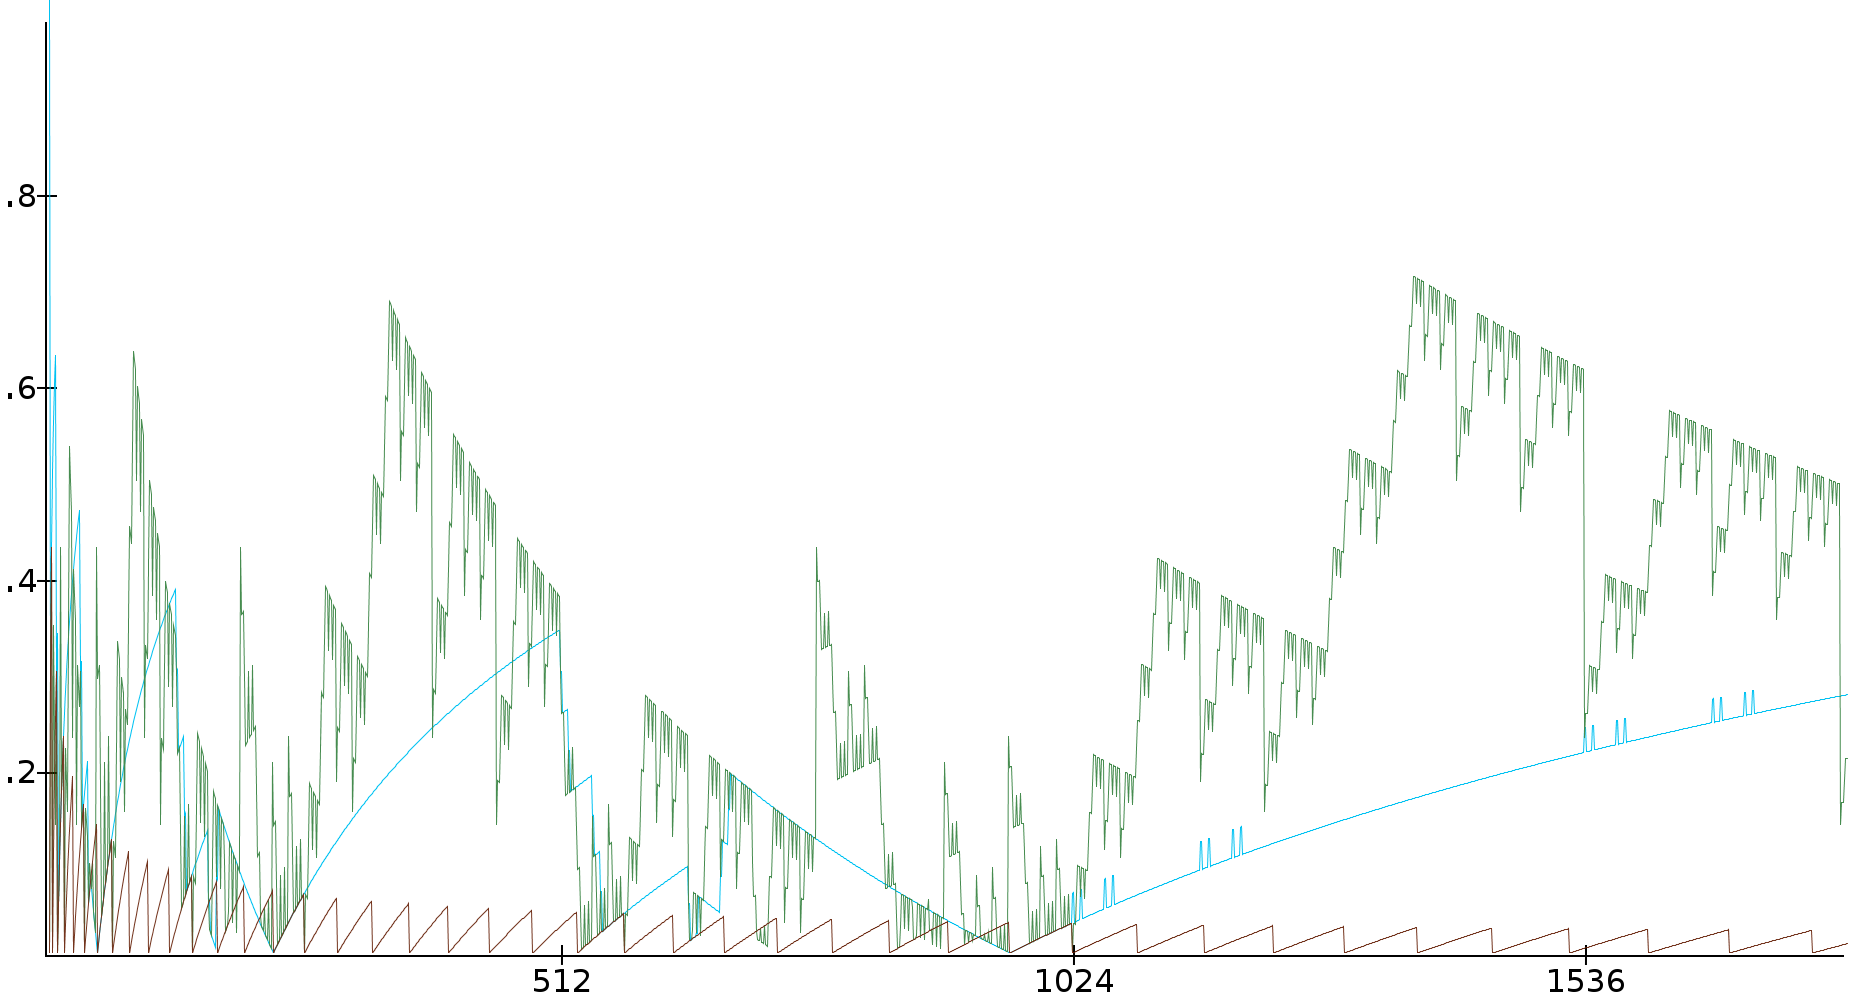
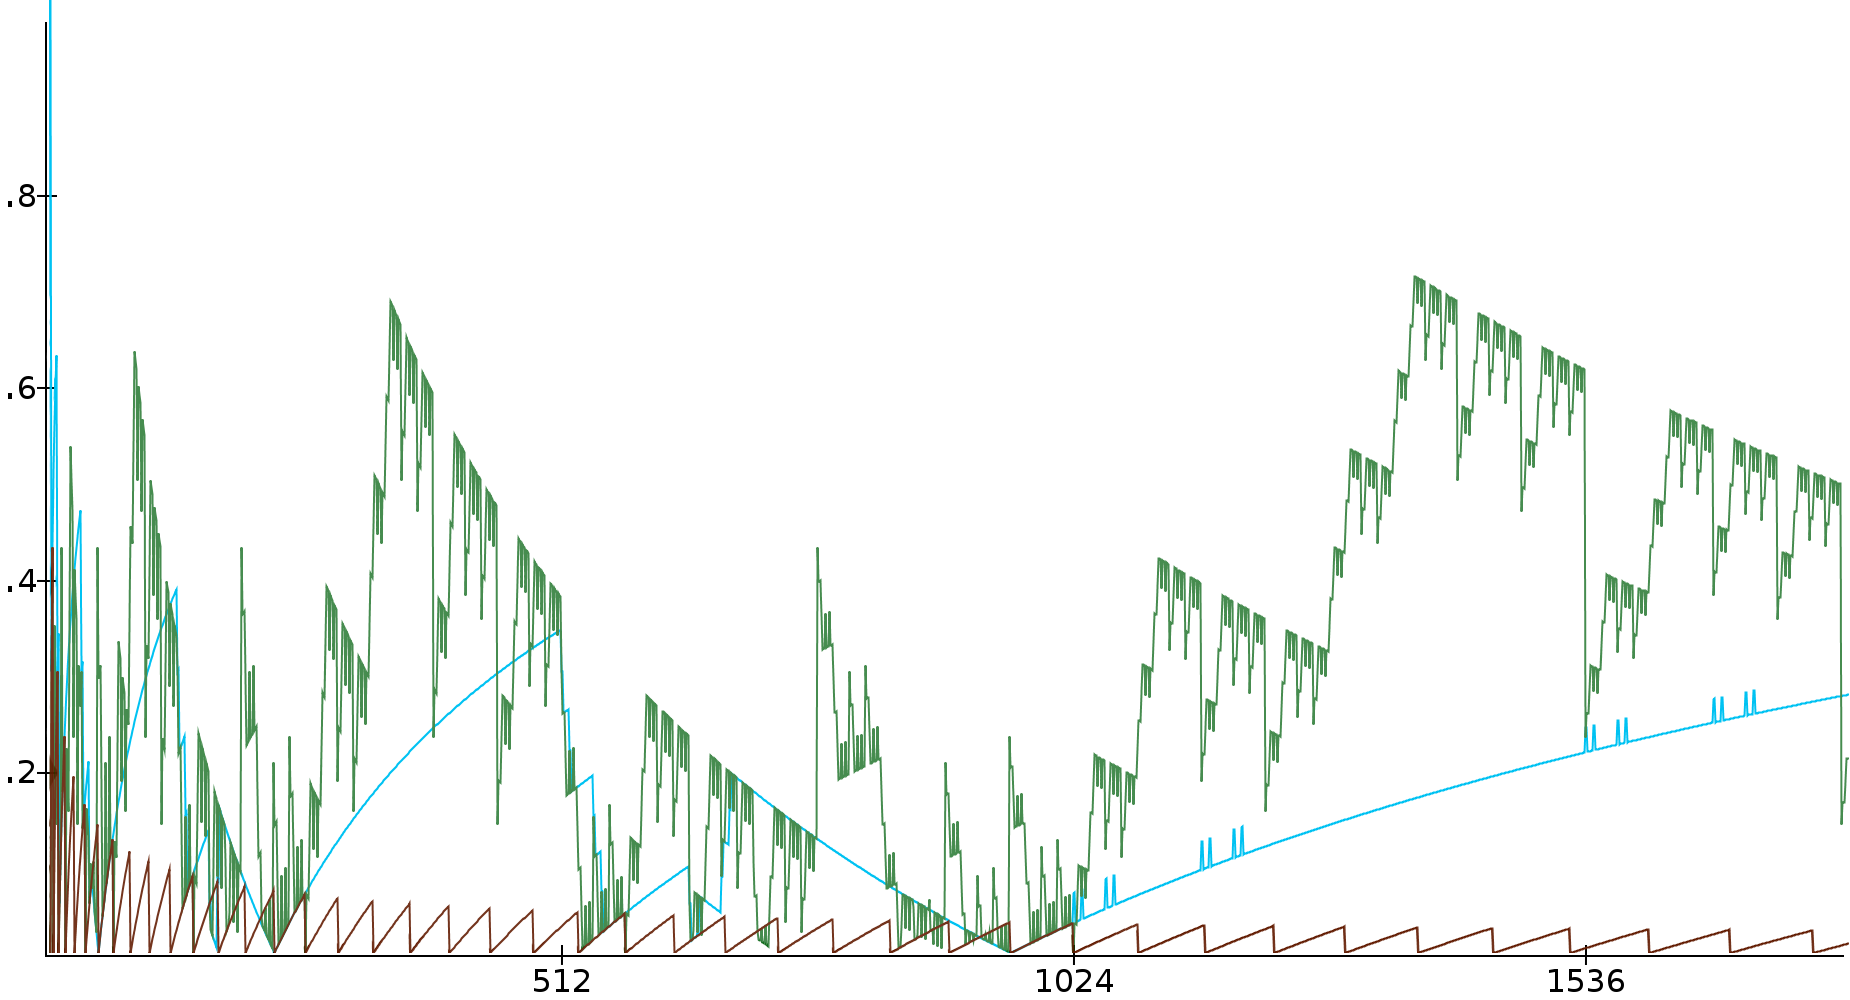
New graphs, updates figure texts.

diff --git a/Docs/Implementation.tex b/Docs/Implementation.tex
@@ -267,7 +267,7 @@
 			look-up table. A 16-bit version of this circuit is shown in figure
 			\ref{orsqrt}, and an improved but slightly more expensive version
 			is showed in figure \ref{orsqrt2}.  The basic working principle is
-			based on the fact that the square root of a number har roughly half
+			based on the fact that the square root of a number has roughly half
 			as many digits as the original number. In the version with slightly
 			improved accuracy the placement of the extra wires is based on the
 			bit pattern of $\sqrt{2}$.
@@ -282,24 +282,29 @@
 			\begin{figure}
 				\centering
 				\caption{Simple square root approximator with minor improvement.
-					This version includes an extra layer of or-gates with a 
-					shift of 4. Adding more layers with shifts of 6, 10, 14, 26
-					etc increases accuracy further, although returns are 
-					diminishing quickly.}
+					This version includes an extra layer of or-gates with a
+					shift of 4. Note that the gates in this diagram seem
+					to be ordered in two extra layers. This is, however, only a
+					visual artifact in this image. Adding more layers with
+					shifts of 6, 10, 14, 26 etc increases accuracy further,
+					although returns are diminishing quickly.}
 				\label{orsqrt2}
 				\includegraphics[width=0.75\linewidth]{figure/pdf/sqrt2Or.pdf} 
 			\end{figure}
 
-			In order to improve the accuracy of this method another design was
-			considered in which the input was both rounded up and down to
-			values where the simple square root approximator was very accurate
-			and the result was then linearly interpolated between these roots.
-			This linear interpolation requires only a multiplication and a
-			couple of additions, but choosing upper and lower seed values is a
-			more complex problem. Choosing the two geometrically closest powers
-			of two was tested because the or-gate square root circuit is very
-			accurate for powers of two, but this is not the only possible
-			choice.
+			In order to improve upon this method, both in terms of accuracy and
+			stability, another design was considered in which the input was
+			both rounded up and down to values where the simple square root
+			approximator was very accurate and the result was then linearly
+			interpolated between these roots. This linear interpolation
+			requires only a multiplication and a couple of additions, but
+			choosing upper and lower seed values is a more complex problem.
+			Choosing the two geometrically closest powers of two was tested
+			because the or-gate square root circuit is very accurate for powers
+			of two, but this is not the only possible choice, as there are many 
+			points for which the simple square root approximator is very 
+			accurate. We did not look further into choosing different upper and
+			lower bounds for the lerp-approximator.
 
 			\begin{table}
 				\centering
@@ -327,8 +332,10 @@ int isqrt(int num) {
 
 			\begin{table}
 				\centering
-				\caption{A \texttt{C} implementation of the shifting nth root 
-					algorithm}
+				\caption{A \texttt{C} implementation of the shifting nth root
+					algorithm. This code example is slightly longer, but
+					relatively expensive additions have been replaced by
+					bitwise ors.}
 				\label{sqrtcopt}
 				\begin{tabular}{c}
 				\begin{lstlisting}

diff --git a/Docs/Results.tex b/Docs/Results.tex
@@ -23,7 +23,7 @@
 		\begin{figure}[H]
 			\centering
 			\includegraphics[width=0.75\linewidth]{figure/value12x.png} 
-			\caption{Result from the simple square root approximator (green),
+			\caption{Value from the simple square root approximator (green),
 				the improved version (blue), and the shifting nth root 
 				algorithm (red).}
 			\label{orsqrt2}
@@ -32,7 +32,7 @@
 		\begin{figure}[H]
 			\centering
 			\includegraphics[width=0.75\linewidth]{figure/rel_error_480x.png} 
-			\caption{Relative error for the simpe square root approximator
+			\caption{Relative error for the simple square root approximator
 				(green), the improved version (blue), and the shifting nth root
 				algorithm (red).}
 			\label{orsqrt2}
@@ -41,9 +41,36 @@
 		\begin{figure}[H]
 			\centering
 			\includegraphics[width=0.75\linewidth]{figure/abs_error_24x.png} 
-			\caption{Absolute error for the simpe square root approximator
+			\caption{Absolute error for the simple square root approximator
 				(green), the improved version (blue), and the shifting nth root
 				algorithm (red).}
+			\label{orsqrt2}
+		\end{figure}
+
+		\begin{figure}[H]
+			\centering
+			\includegraphics[width=0.75\linewidth]{figure/value_lin12x.png} 
+			\caption{Value from lerp-approximator (purple), simple square root
+				approximator with one step of the babylonian method (green),
+				and the shifting nth root algorithm (red).}
+			\label{orsqrt2}
+		\end{figure}
+
+		\begin{figure}[H]
+			\centering
+			\includegraphics[width=0.75\linewidth]{figure/rel_lin960x.png} 
+			\caption{Relative error for the lerp-approximator (purple), simple 
+				square root approximator with one step of the babylonian method 
+				(green), and the shifting nth root algorithm (red).}
+			\label{orsqrt2}
+		\end{figure}
+
+		\begin{figure}[H]
+			\centering
+			\includegraphics[width=0.75\linewidth]{figure/abs_lin24x.png} 
+			\caption{Absolute error for the lerp-approximator (purple), simple 
+				square root approximator with one step of the babylonian method 
+				(green), and the shifting nth root algorithm (red).}
 			\label{orsqrt2}
 		\end{figure}
 

diff --git a/Docs/Conclusion.tex b/Docs/Conclusion.tex
@@ -1,3 +1,1 @@
-% CREATED BY DAVID FRISK, 2016
-\chapter{Conclusion} 
-
+\chapter{Conclusions} 
